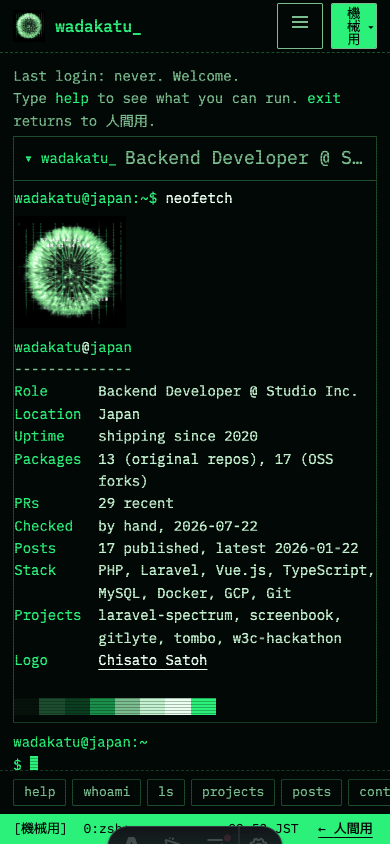
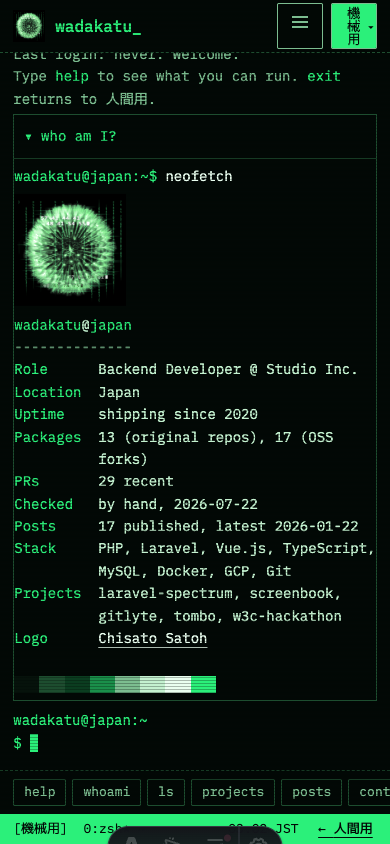
explore: label the phone login card “who am I?”
The collapsed summary is a short shell-like line that fits without
ellipsizing. Opening or closing it keeps the prompt in view.

Changed region(s): [[0.0308, 0.0616, 0.9538, 0.9242], [0.7692, 0.0616, 0.8615, 0.1232], [0.6769, 0.0616, 0.7385, 0.1232]]

diff --git a/src/pages/proto/matrix/_term.ts b/src/pages/proto/matrix/_term.ts
@@ -84,8 +84,8 @@ function loginCard(cmd: string) {
   const card = Object.assign(document.createElement('details'), { className: 'login-card' });
   const sum = document.createElement('summary');
   const role = world.fetch.find((row) => row[0] === 'Role')?.[1];
-  sum.append(Object.assign(document.createElement('span'), { className: 'id', textContent: `${world.user}_` }));
-  if (role) sum.append(Object.assign(document.createElement('span'), { className: 'role', textContent: role }));
+  sum.setAttribute('aria-label', role ? `who am I? ${world.user}_, ${role}` : `who am I? ${world.user}_`);
+  sum.append('who am I?');
   card.append(sum);
   const line = Object.assign(document.createElement('div'), { className: 'ln echo' });
   line.append(Object.assign(document.createElement('span'), { className: 'ps', ariaHidden: 'true', textContent: shell.prompt() }), ` ${cmd}`);
@@ -93,7 +93,7 @@ function loginCard(cmd: string) {
   print(r.out, card);
   tty.append(card);
   if (matchMedia('(min-width: 720px)').matches) card.open = true;
-  card.addEventListener('toggle', () => { if (!card.open) bottom(); });
+  card.addEventListener('toggle', () => requestAnimationFrame(bottom));
   bottom();
 }
 function echo(cmd: string, tail = '') {

diff --git a/public/styles/proto/matrix.css b/public/styles/proto/matrix.css
@@ -503,9 +503,6 @@ kbd { font: inherit; padding: 0 6px; border: 1px solid currentColor; border-radi
   .login-card > summary::before { content: '▸'; flex: none; }
   .login-card[open] > summary::before { content: '▾'; }
   .login-card > summary:focus-visible { outline: 2px solid var(--green); outline-offset: -2px; }
-  .login-card > summary .role {
-    min-width: 0; color: var(--muted); overflow: hidden; text-overflow: ellipsis; white-space: nowrap;
-  }
   .login-card[open] > summary { border-bottom: 1px solid var(--rule); }
 }
 @supports selector(::details-content) {

diff --git a/docs/design-explore/MATRIX-NOTES.md b/docs/design-explore/MATRIX-NOTES.md
@@ -1316,7 +1316,7 @@ Playwright, Chrome, against `http://127.0.0.1:4321`. `npm run build` completed (
 
 ## The login neofetch on a phone
 
-wadakatu: 「スマホの機械用ですが、上の自己紹介部分はaccordionとかで閉じられるようにすると良さそうかな それかスマホ版の場合は出さないようにするとか あまりにTerminal部分が小さい」. The block is the auto-run login `neofetch` card on `/proto/matrix/machine/` (logo + Role / Location / …), not a separate page section. Below 720px it is now a native `<details class="login-card">`, closed by default, one 44px summary line (`wadakatu_` and the role). The prompt sits under that line and has most of the screen. From 720px up the summary is hidden and the card is just its contents, the same session as before. Accordion, not hidden: the same facts are still one open away, and `whoami` / `about` / a typed `neofetch` were already there. `/projects/machine/` has no login card (it still starts with `ls -l`) and was left alone. Terminal commands and their output are unchanged.
+wadakatu: 「スマホの機械用ですが、上の自己紹介部分はaccordionとかで閉じられるようにすると良さそうかな それかスマホ版の場合は出さないようにするとか あまりにTerminal部分が小さい」. The block is the auto-run login `neofetch` card on `/proto/matrix/machine/` (logo + Role / Location / …), not a separate page section. Below 720px it is now a native `<details class="login-card">`, closed by default, one 44px summary line (`who am I?`, with a `▸` / `▾`). The prompt sits under that line and has most of the screen. From 720px up the summary is hidden and the card is just its contents, the same session as before. Accordion, not hidden: the same facts are still one open away, and `whoami` / `about` / a typed `neofetch` were already there. `/projects/machine/` has no login card (it still starts with `ls -l`) and was left alone. Terminal commands and their output are unchanged.
 
 ### Heights
 
@@ -1329,14 +1329,14 @@ Playwright, Chrome, live shell, boot skipped, against `http://127.0.0.1:4321`. `
 | 430 × 844 | 717.4px, unchanged | `.fetch` 478.3px | 46px card | cramped → **535.3px** |
 | 1440 × 900 | 757.4px, unchanged | `.fetch` 313.5px, tty 398.6px, header 69px | the same; summary not drawn | 318.2px, unchanged |
 
-At 390, opened, the card is 587px and the prompt sits about 6px past the fold (the screen still scrolls). `/projects/machine/` at 390 is unchanged (tty 498.6px, no card).
+At 390, opened, the card is 587px and the prompt sits 16px above the fold (`bottom()` on toggle). `/projects/machine/` at 390 is unchanged (tty 498.6px, no card). The summary is the short label `who am I?`; it does not ellipsize at 360 or 390. Its accessible name is `who am I? wadakatu_, Backend Developer @ Studio Inc.`
 
 ### How it is built
 
 - The recorded session in `_Terminal.astro` wraps only the first `neofetch` block (the echo line and the `.fetch`) in `<details class="login-card">`. Later commands print as they did.
 - The live shell in `_term.ts` does the same for the auto-run `~/.zshrc` `neofetch`. A typed `neofetch`, or `?run=` of any command including `neofetch`, still prints in the open. `loginCard()` does not go through `run()`, so it calls `refresh()` so the prompt is drawn.
 - Below 720px the summary is a 44px flex row with a `▸` / `▾` marker (`display: flex` hides the native triangle). From 720px, `.login-card` and `::details-content` are `display: contents`, the content stays `content-visibility: visible` whether or not the details is open, and the summary is `display: none` — the same pattern as the header menu. The live shell also sets `open` at 720px and up, for engines without `::details-content`.
-- Closing the details calls `bottom()` so the prompt comes back into view. Opening does not steal scroll from the card. `visualViewport` / `fit()` / `.kb` are untouched; `.kb` still only hides the modeline (and the desktop nav from 720px up).
+- Toggling the details (open or close) calls `bottom()` on the next frame so the prompt stays in view. `visualViewport` / `fit()` / `.kb` are untouched; `.kb` still only hides the modeline (and the desktop nav from 720px up).
 
 ### No JavaScript, reduced motion, accessibility
 
@@ -1362,12 +1362,12 @@ Playwright, Chrome, 390 × 844, against `http://127.0.0.1:4321`. Also copied to 
 | `docs/design-explore/shots/matrix-intro-390-phosphor-expanded.png` | After, expanded, phosphor |
 | `docs/design-explore/shots/matrix-intro-390-operator-collapsed.png` | After, collapsed, Operator |
 | `docs/design-explore/shots/matrix-intro-390-operator-expanded.png` | After, expanded, Operator |
+| `docs/design-explore/shots/matrix-intro-360-phosphor-collapsed.png` | After, collapsed, phosphor, 360 (`who am I?`) |
 | `docs/design-explore/shots/matrix-intro-before-projects-machine-390.png` | `/projects/machine/`, 390, before (no card; left unchanged) |
 
 ### Still weak
 
-- **Opening the card at 390 leaves the prompt about 6px past the fold.** Closing calls `bottom()`; opening does not, so the card is not scrolled away from. The screen still scrolls.
-- **The role in the summary ellipsizes** (`Backend Developer @ St…` at 390). The full role is in the open card.
+- **At 360, opened, the card is taller than the screen** (tty 727.4px + prompt 45px). `bottom()` keeps the prompt in view, so the top of the motd can scroll away.
 - **It depends on `::details-content` at desktop** (same class of engine as the header menu). An older no-JS desktop would see a closed disclosure; the live shell sets `open` from 720px up.
 - **Checked in Chrome only.** An iPhone, and the on-screen keyboard with the accordion open, were not opened. `fit()` itself was not changed.
 - **`display: flex` on the summary** means the marker is a CSS `▸` / `▾`, not the native triangle.
